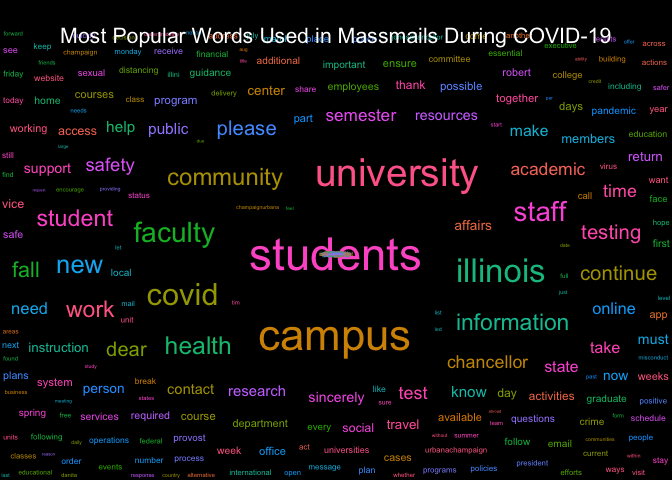
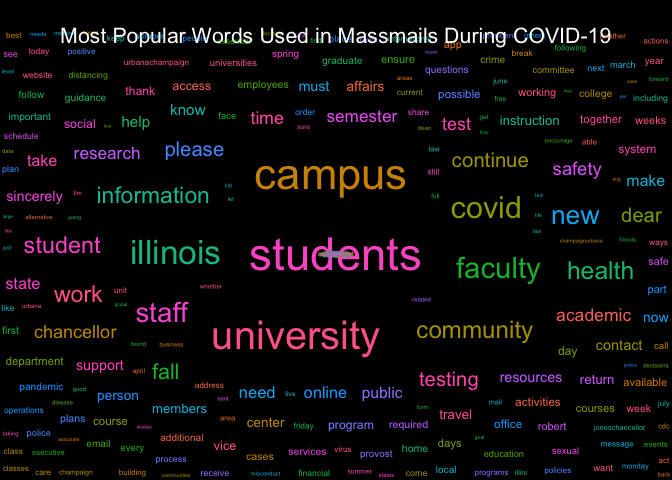
Re-build README.Rmd and Graphs

diff --git a/README.md b/README.md
@@ -17,7 +17,7 @@ The archive may be viewed here:
 
 <https://massmail.illinois.edu/massmailArchive>
 
-Data has **1234** observations and **7** variables:
+Data has **1236** observations and **7** variables:
 
   - `datetime`: Date and time when the email was sent in the form of
     `YYYY-MM-DD HMS` with either CDT or CST.
@@ -205,16 +205,16 @@ head(most_popular_words, 10) %>%
 
 | word        | freq |
 | :---------- | ---: |
-| students    |  674 |
+| students    |  678 |
 | campus      |  622 |
-| university  |  588 |
-| illinois    |  382 |
-| faculty     |  329 |
+| university  |  612 |
+| illinois    |  395 |
+| faculty     |  350 |
 | covid       |  328 |
-| community   |  313 |
+| community   |  320 |
 | information |  285 |
-| staff       |  265 |
-| health      |  255 |
+| staff       |  267 |
+| health      |  258 |
 
 #### Wordcloud
 
